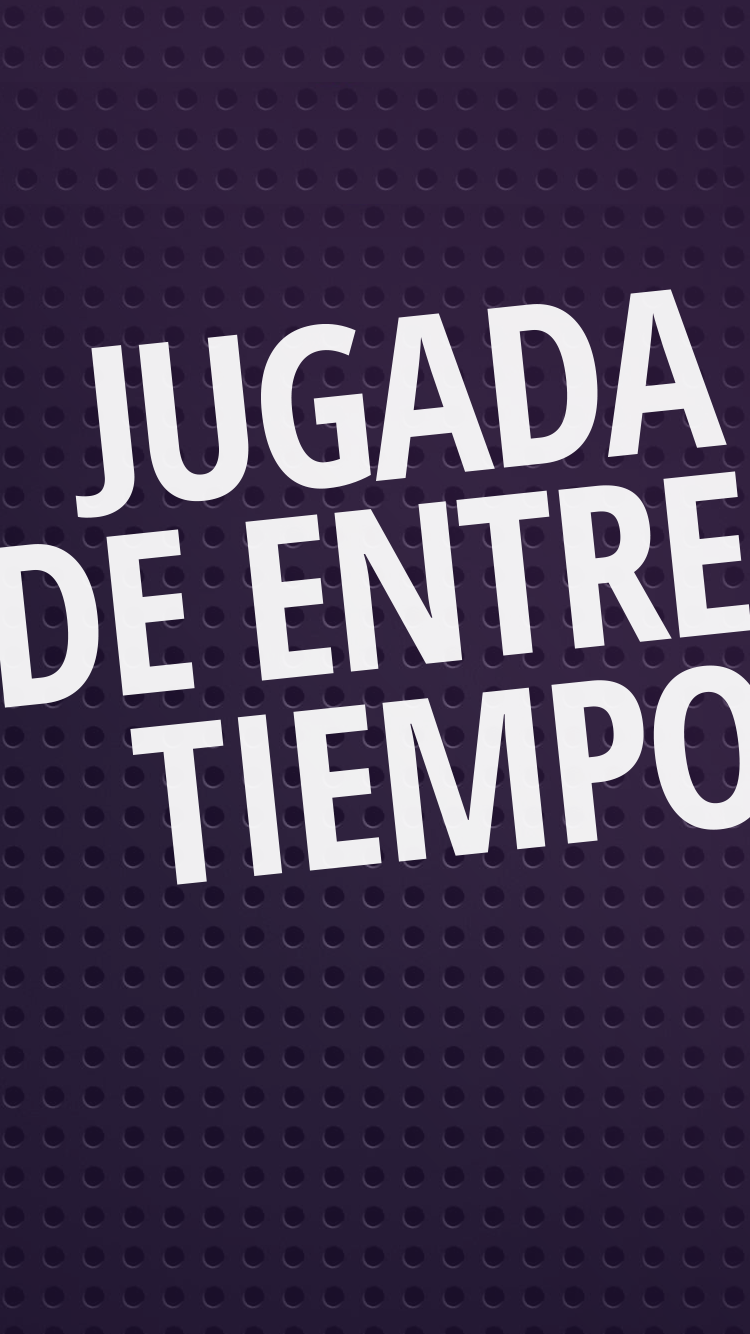
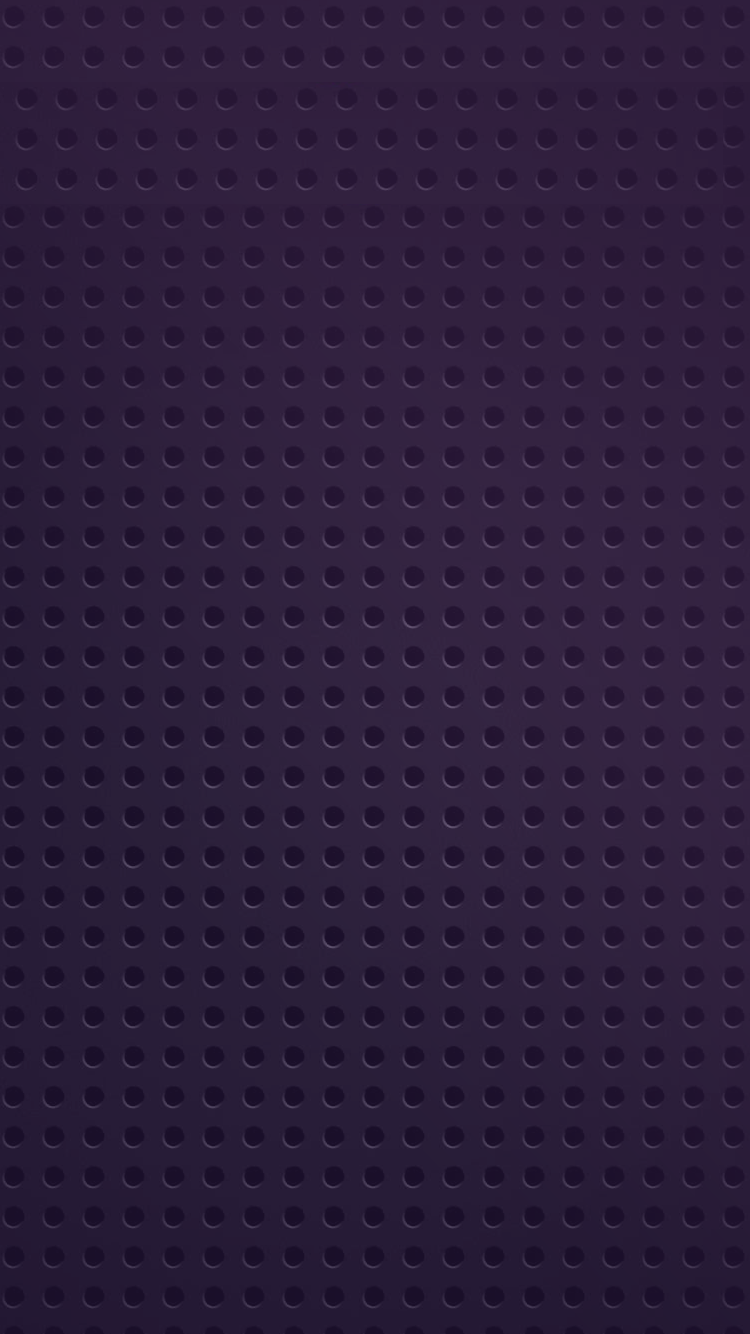
update

Changed region(s): [[0.0, 0.2151, 1.0, 0.6762]]

diff --git a/screens/GameHalfTimePlayScreen.js b/screens/GameHalfTimePlayScreen.js
@@ -1,5 +1,8 @@
 import React from 'react';
-import {connectStyle,Container,Content} from 'native-base'
+import {connectStyle,Container,Content,Text} from 'native-base'
+
+import {View} from 'react-native'
+
 
 import Wallpaper from '../components/Wallpaper';
 import AppHeader from '../components/AppHeader/AppHeader';
@@ -51,7 +54,12 @@ class GameHalfTimePlayScreen extends React.Component {
 
       <AppHeader drawerOpen={() => {this.props.navigation.openDrawer()}} game={false} />
         <Content padder contentContainerStyle={styles.statistics}>
-          {this.renderMessage()}
+          <View style={styles.textContainer}>
+            <Text style={styles.textLine1}>JUGADA</Text>
+            <Text style={styles.textLine2}>DE ENTRE</Text>
+            <Text style={styles.textLine3}>TIEMPO</Text>
+
+          </View>
         </Content>
        </Wallpaper>
       </Container>
@@ -60,4 +68,4 @@ class GameHalfTimePlayScreen extends React.Component {
 
 }
 
-export default connectStyle('SuperLiga.StatisticsScreen')(GameHalfTimePlayScreen);
+export default connectStyle('SuperLiga.GameHalfTimePlayScreen')(GameHalfTimePlayScreen);

diff --git a/Theme/AppTheme.js b/Theme/AppTheme.js
@@ -987,6 +987,37 @@ export default {
             marginRight: s(40)
         }
     },
+    'SuperLiga.GameHalfTimePlayScreen':{
+        textContainer: {
+            marginTop: h(50),
+            alignItems:'center',
+            justifyContent: 'center',
+        },
+        textLine1: {
+            fontFamily: 'OpenSansCondensed_bold',
+            transform: [{ rotate: '-5deg'}],
+            textAlign: 'center',
+            fontSize: s(223),
+            marginBottom: s(-80),
+        },
+        textLine2: {
+            fontFamily: 'OpenSansCondensed_bold',
+            transform: [{ rotate: '-5deg'}],
+            textAlign: 'center',
+            fontSize: s(223),
+            marginHorizontal: s(-70),
+            marginBottom: s(-80),
+        },
+        textLine3: {
+            fontFamily: 'OpenSansCondensed_bold',
+            transform: [{ rotate: '-5deg'}],
+            textAlign: 'right',
+            width:"100%",
+            marginRight: s(-70),
+
+            fontSize: s(223),
+        }
+    },
     'SuperLiga.GameScreen':{
         game:{
             flex:1,
